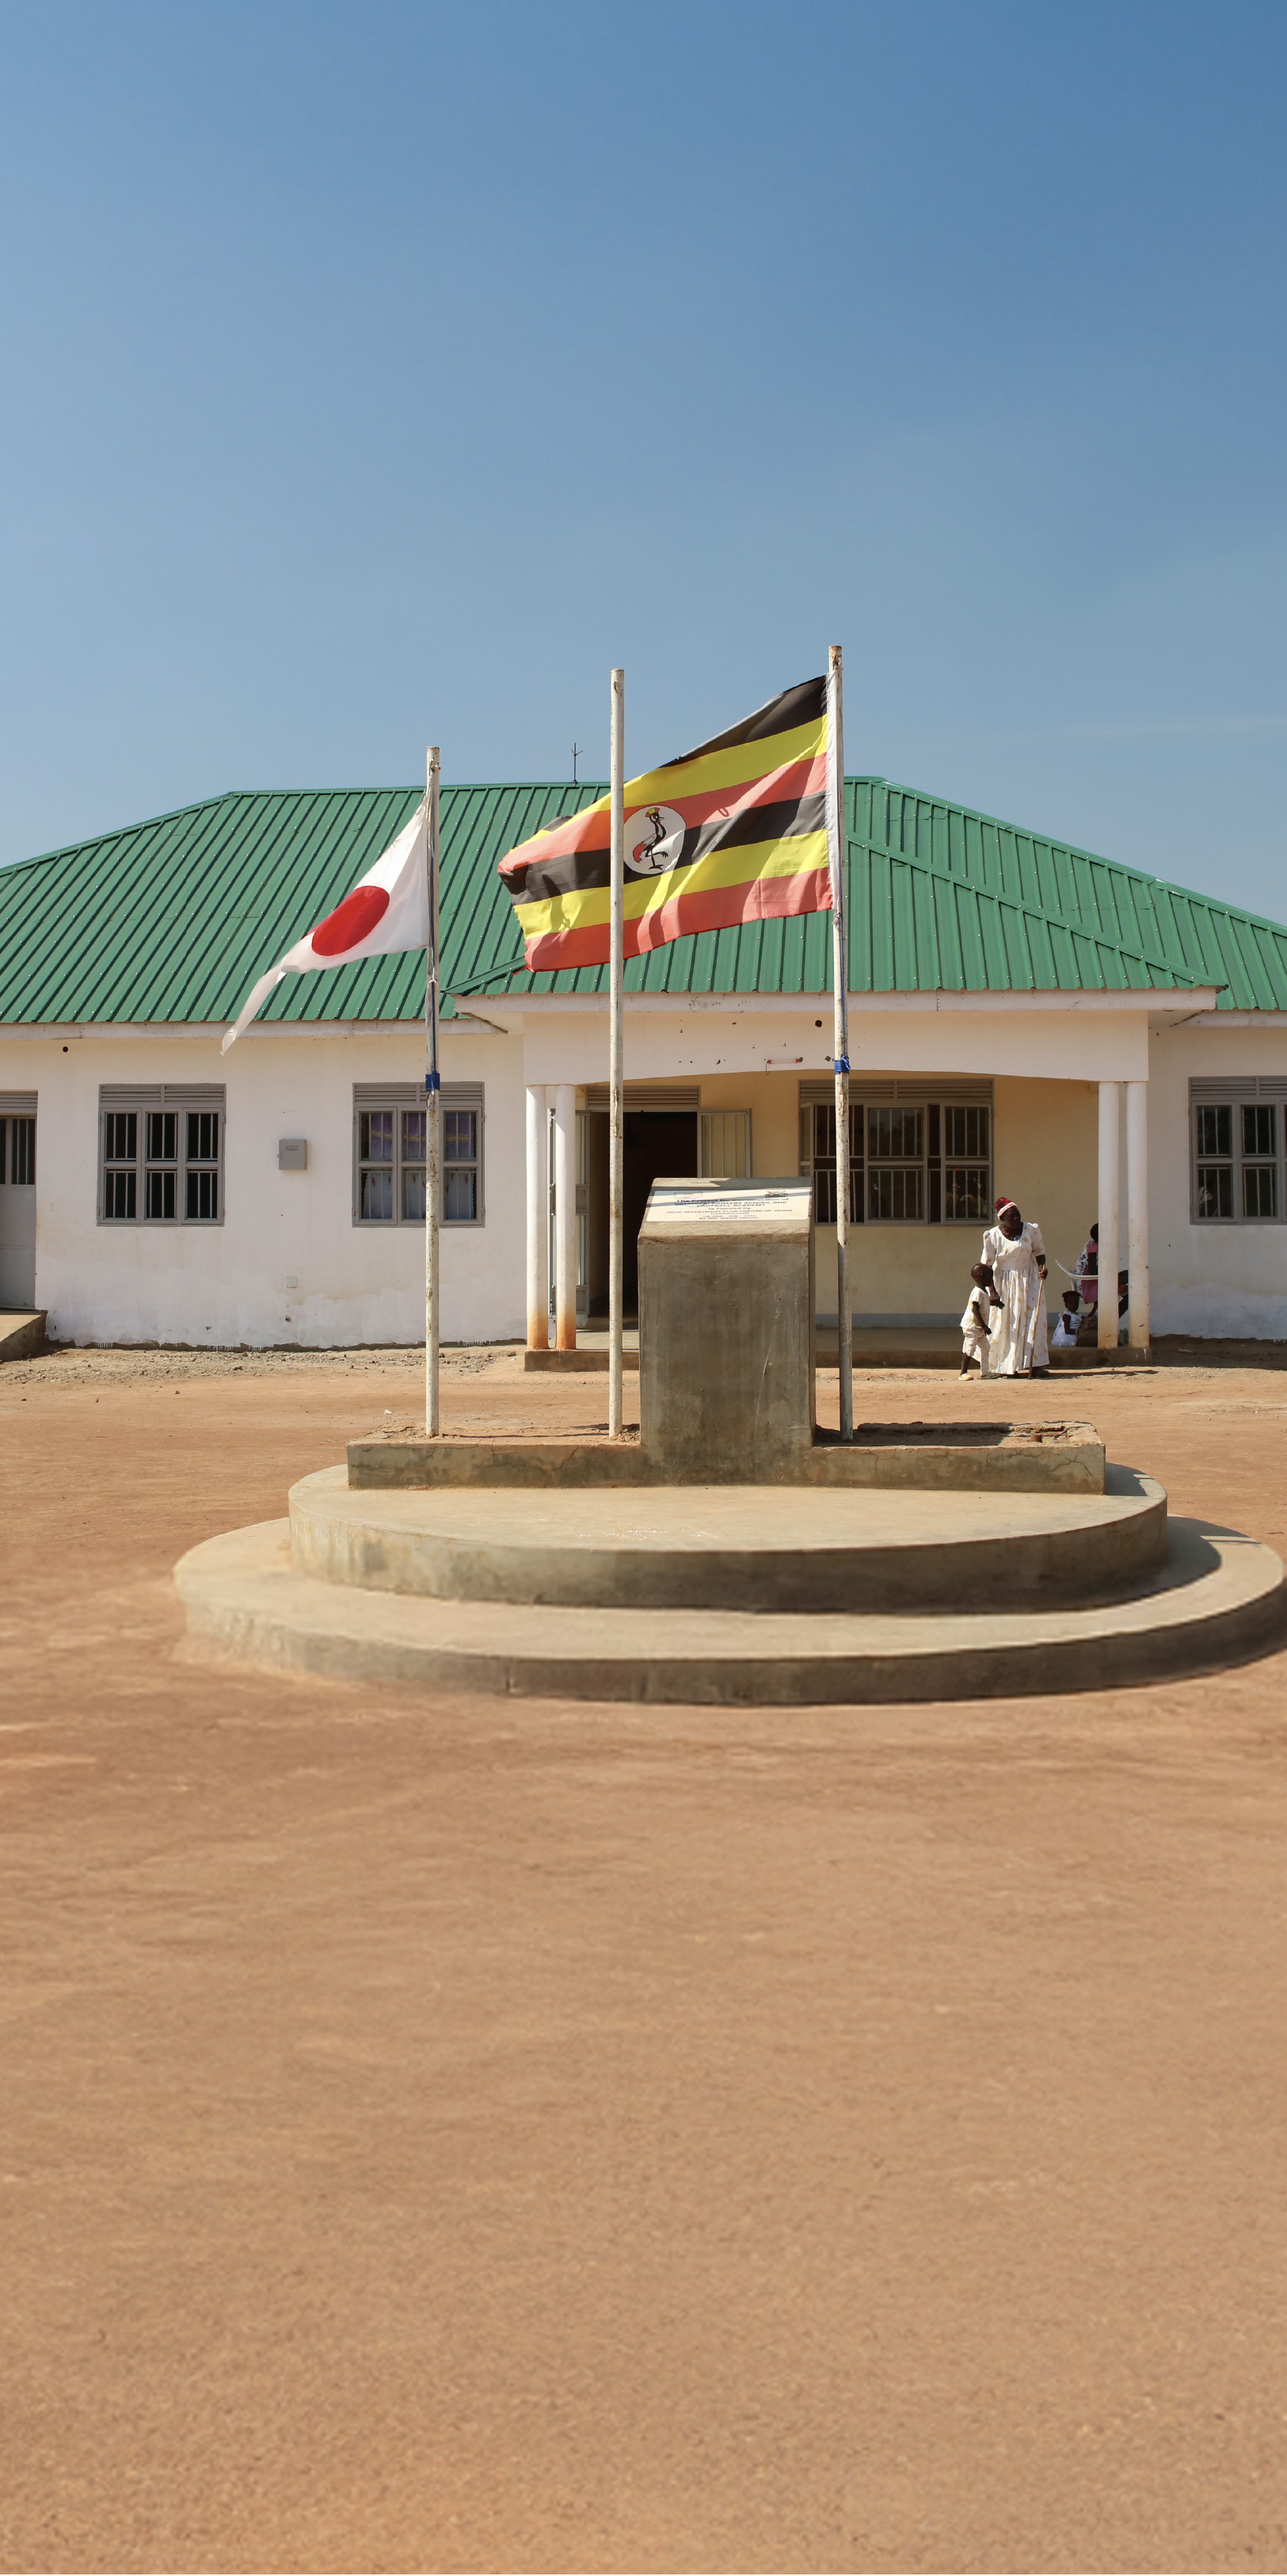
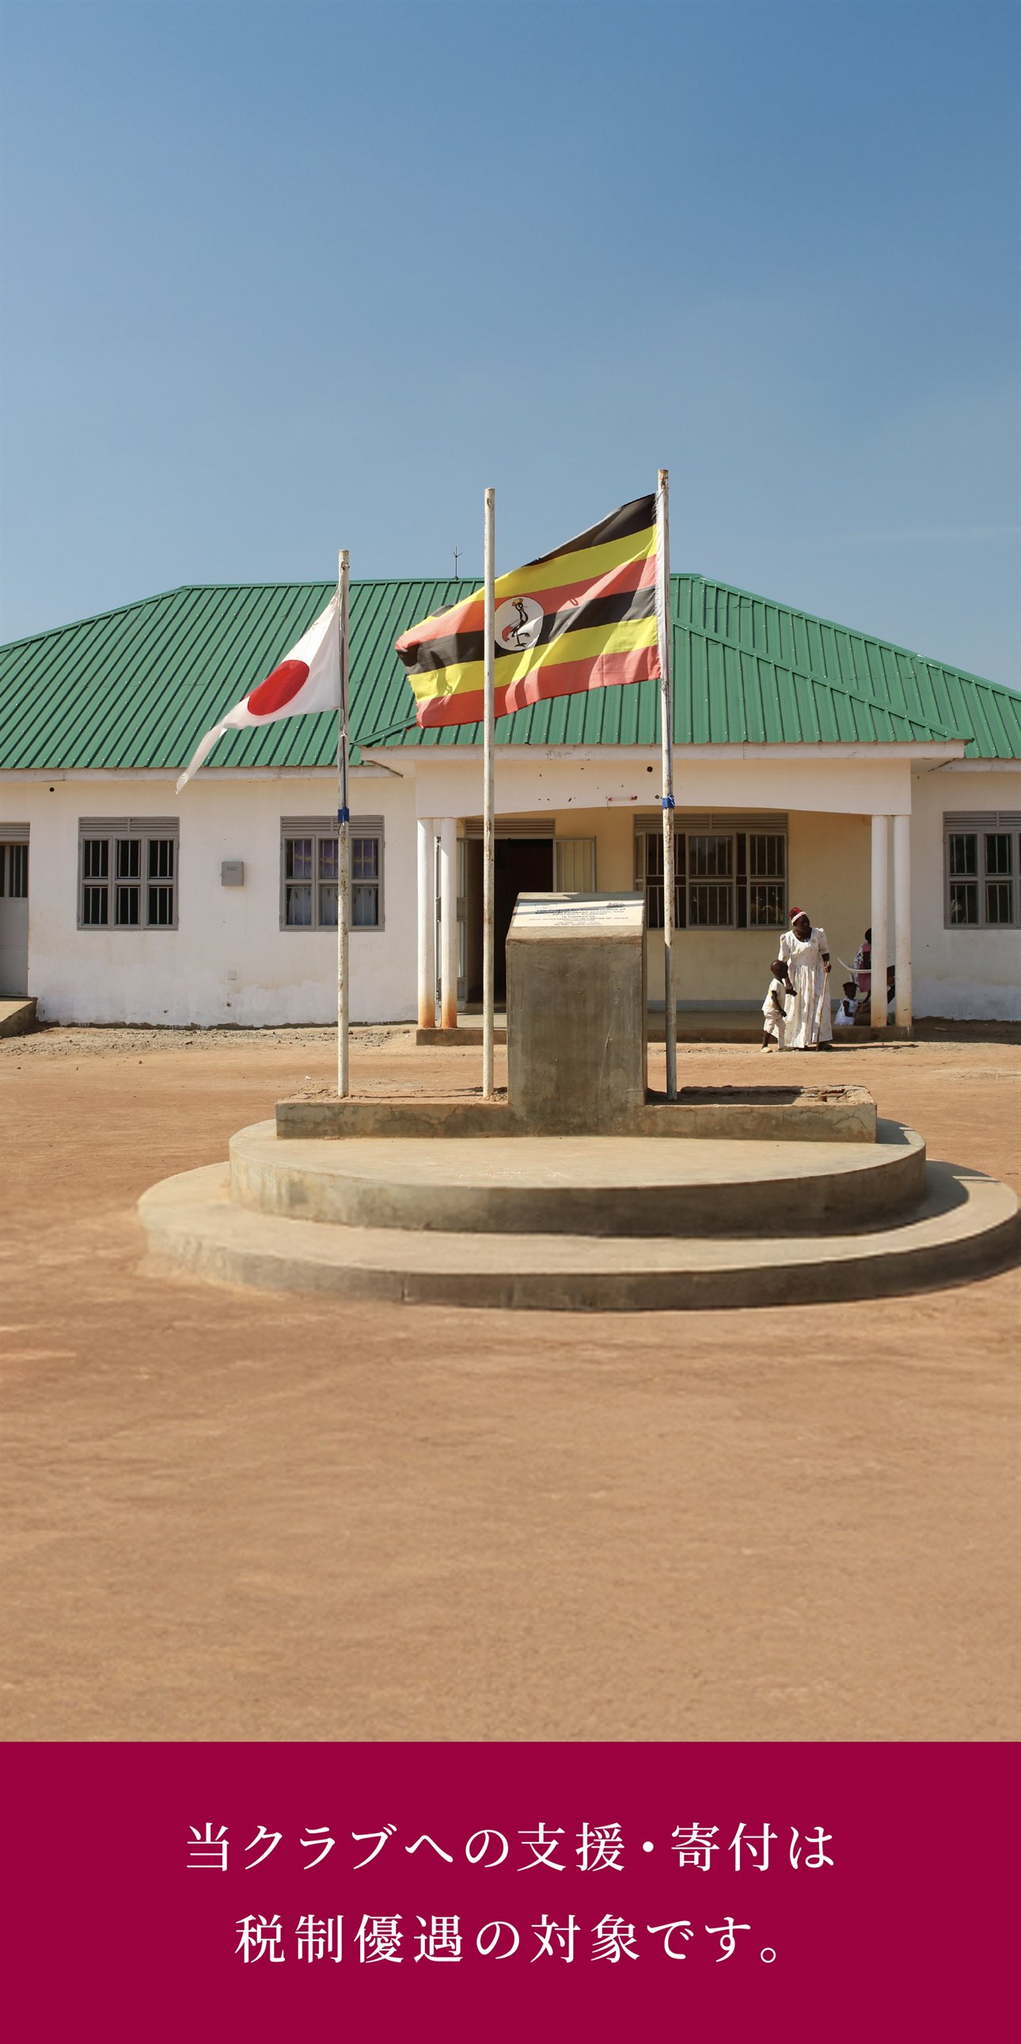
SP: トップページ カンプ反映（ヒーロー赤帯 / 企業ボタン / 講演会セクション）
- ヒーロー画像を新素材(下部に「当クラブへの支援・寄付は税制優遇の対象です。」
  の赤帯が焼き込まれたもの)に差し替え。1290x2581/86%に最適化(2.6MB→333KB)
  帯が切れないよう SP の .hero-img を height:100vh → height:auto に
- 支援金募集要項に SP用「企業・法人の皆様へ」ボタン(images/sp/btn-corporate.svg)を追加。
  SPでは .donate-btn-wrap を縦積み(gap 22px)に
- 講演会のご案内セクションから .pc-only を外しSPでも表示。
  タイトルSVGを<picture>でSP版(images/sp/title-lecture.svg「講演会のご案内/開催団体募集」)
  に差し替え、リード文はSP専用の3行版、本文は両端揃えで自然折り返し、
  ボタンはSPのみ「お申込はこちら」に
- alt を実際のSVGの文言に修正(詳細はこちら→詳細をみる、タイトルに開催団体募集を追加)
- CSS追加はすべて @media (max-width: 768px) 内。PC版は無影響(1440pxで確認済み)

Claude-Session: https://claude.ai/code/session_01F4Er1F5UMwimZ6118Wjgg1

diff --git a/index.html b/index.html
@@ -189,17 +189,21 @@
         <a href="https://docs.google.com/forms/d/e/1FAIpQLSf1DILhXa41wt5uwXnIUgd5tR2fM9UG1Bz9wDiELXGrGOWsBw/viewform" class="btn-svg"><img src="images/sp/btn-donate.svg" alt="お申込はこちら"></a>
         <!-- PC専用: 企業・法人の皆様へ（TODO: リンク先未定） -->
         <a href="/partnership/" class="btn-svg pc-only"><img src="images/btn-corporate.svg" alt="企業・法人の皆様へ"></a>
+        <a href="/partnership/" class="btn-svg sp-only"><img src="images/sp/btn-corporate.svg" alt="企業・法人の皆様へ"></a>
       </div>
     </div>
   </section>
 
-  <!-- 講演会のご案内（PC専用。SP版はSP素材が入り次第対応） -->
-  <section class="section lecture-section pc-only" id="lecture" style="padding-top:110px; padding-bottom:60px;">
+  <!-- 講演会のご案内 -->
+  <section class="section lecture-section" id="lecture" style="padding-top:110px; padding-bottom:60px;">
     <div class="container">
-      <img src="images/title-lecture.svg" alt="講演会のご案内" class="section-title-svg">
+      <picture class="swap">
+        <source media="(max-width: 768px)" srcset="images/sp/title-lecture.svg">
+        <img src="images/title-lecture.svg" alt="講演会のご案内 開催団体募集" class="section-title-svg">
+      </picture>
       <p class="lecture-lead">
         スポーツの力で世界を変える。<br>
-        ～ アフリカ・ネパールでの国際支援活動から学ぶ ～
+        <span class="pc-only">～ アフリカ・ネパールでの国際支援活動から学ぶ ～</span><span class="sp-only">アフリカ・ネパールでの<br>国際支援活動から学ぶ。</span>
       </p>
       <p class="lecture-body">
         認定NPO法人五条クラブでは、学校・企業・自治体・各種団体を対象に、<br>
@@ -207,7 +211,8 @@
         詳しくは下記詳細からご確認くださいませ。
       </p>
       <div class="lecture-btn-wrap">
-        <a href="/lecture/" class="btn-svg"><img src="images/btn-detail.svg" alt="詳細はこちら"></a>
+        <a href="/lecture/" class="btn-svg pc-only"><img src="images/btn-detail.svg" alt="詳細をみる"></a>
+        <a href="/lecture/" class="btn-svg sp-only"><img src="images/sp/btn-donate.svg" alt="お申込はこちら"></a>
       </div>
     </div>
   </section>

diff --git a/style.css b/style.css
@@ -221,7 +221,7 @@ article:has(+ .site-footer) .section:last-of-type { padding-bottom: 0; }
   .header-nav    { display: none; }
   .header-support-sp { display: block; }
   .nav-toggle    { display: flex; }
-  .hero-img      { height: 100vh; height: 100svh; }
+  .hero-img      { height: auto; }   /* SP: 新ヒーロー素材は下部に赤帯が焼き込まれているため、切らずに全体(縦横比そのまま)を表示 */
   .intro         { padding: 158px 0 110px; }   /* SP: 上(ヒーロー下)=158、下=110。ヒーロー下 158 = AR上(intro pb 110 + AR pt 48 = 158)で一致 */
   .intro p       { font-size: 17px; line-height: 2.8; }   /* SP +2px(15.2px→17px)、行間を少し詰める(3.3→2.8) */
   .sp-br         { display: inline; }              /* SPはご指定の改行位置で表示 */
@@ -292,7 +292,16 @@ article:has(+ .site-footer) .section:last-of-type { padding-bottom: 0; }
   .btn-svg img  { height: 40px; }
   .btn { font-size: 18px; }   /* CSSテキストボタンの文字をCONTACTのSVGボタンに合わせて統一 */
   .header-support-sp { padding: 6px 18px; }   /* ヘッダー内なので高さは抑える */
-  .pc-only { display: none !important; }   /* PC専用要素(講演会のご案内セクション・企業法人ボタン)はSPでは非表示。SP版素材が入り次第対応 */
+  /* --- SP: 支援金募集要項のボタン2つを縦積み --- */
+  .donate-btn-wrap { display: flex; flex-direction: column; align-items: center; gap: 22px; }
+
+  /* --- SP: 講演会のご案内（カンプ実測） --- */
+  .lecture-section .section-title-svg { margin-bottom: 30px; }
+  .lecture-lead  { font-size: 21px; line-height: 1.65; color: var(--text); text-align: center; margin-bottom: 27px; }
+  .lecture-body  { font-size: 17px; line-height: 1.76; color: var(--text); text-align: justify; padding: 0 12px; margin-bottom: 23px; }
+  .lecture-body br { display: none; }   /* SPは自然に折り返す */
+  .lecture-btn-wrap { text-align: center; }
+  .pc-only { display: none !important; }   /* PC専用要素はSPでは非表示 */
 }
 
 /* ============================================================ PC全体: Medium→Regular / Bold→Medium ============================================================ */
